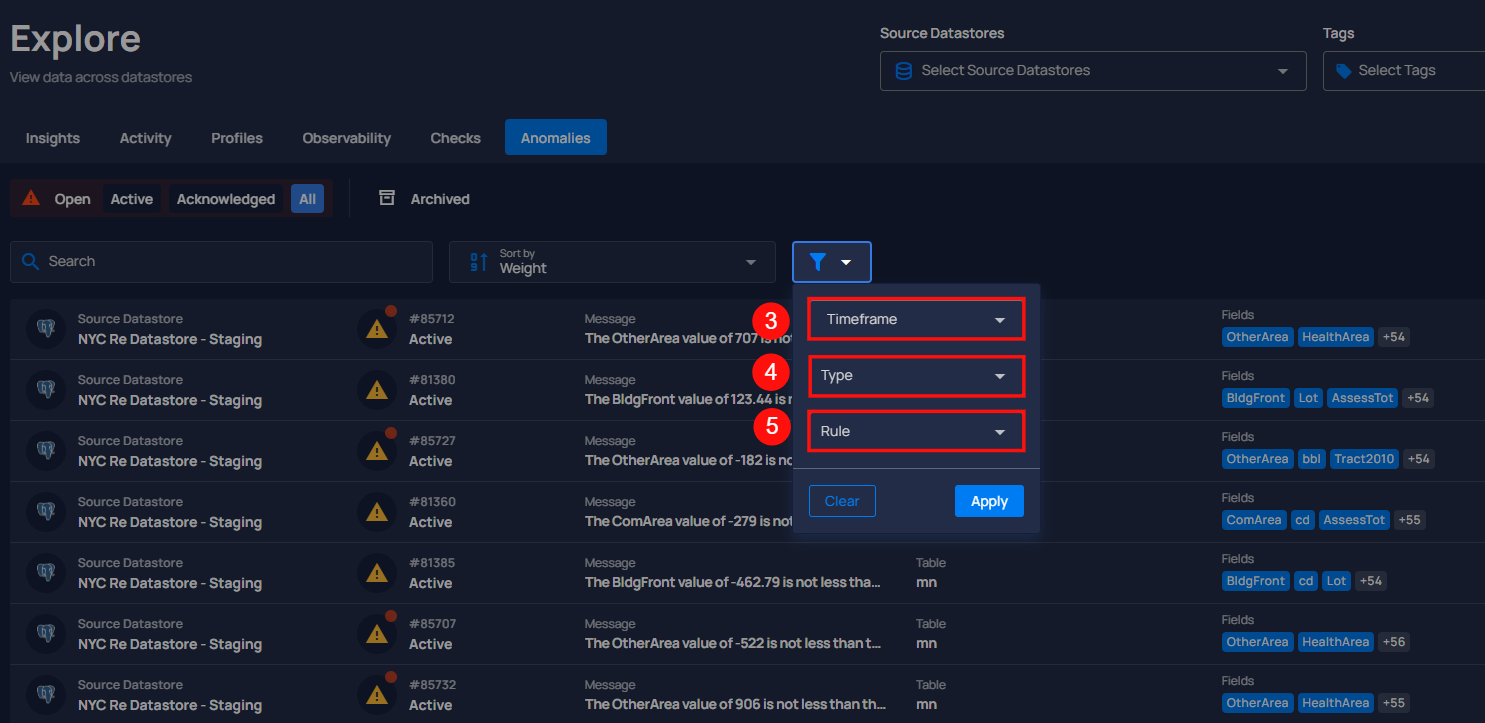
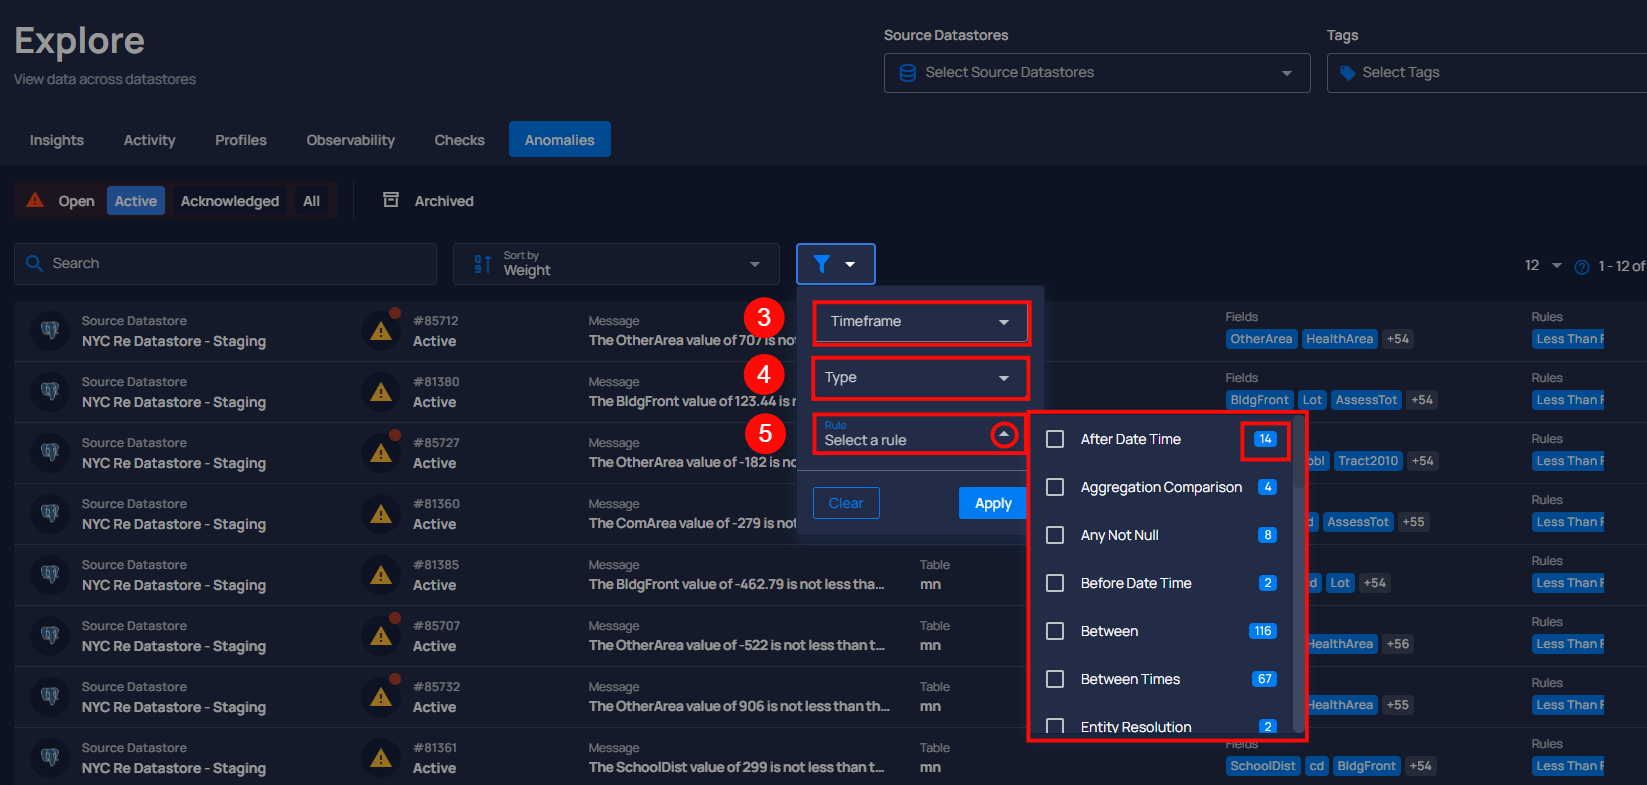
Qua507: Update "Anomalies" user guide as per the latest release.

diff --git a/docs/explore/anomalies.md b/docs/explore/anomalies.md
@@ -275,7 +275,7 @@ You can filter your anomalies based on values like **Source Datastores, Timefram
 | **2** | **Select Tags** | Filter anomalies by specific tags to categorize and prioritize issues effectively. |
 | **3** | **Timeframe** | Filtering anomalies detected within specific time ranges (e.g., anomalies detected in the last week or year). |
 | **4** | **Type** | Filter anomalies based on anomaly type (Record or Shape). |
-| **5** | **Rule** |  Filter anomalies based on specific rules applied to the anomaly. |
+| **5** | **Rule** | Filter anomalies based on specific rules applied to the anomaly. By clicking on the caret down button next to the Rule field, the available rule types will be dynamically populated based on the rule types present in the results. The rules displayed are based on the current dataset and provide more granular control over filtering. <br> <br> Each rule type will show a counter next to it, displaying the total number of occurrences for that rule in the dataset.<br> <br> For example, the rule type **After Date Time** is displayed with a total of **14** occurrences. |
 
 
 
